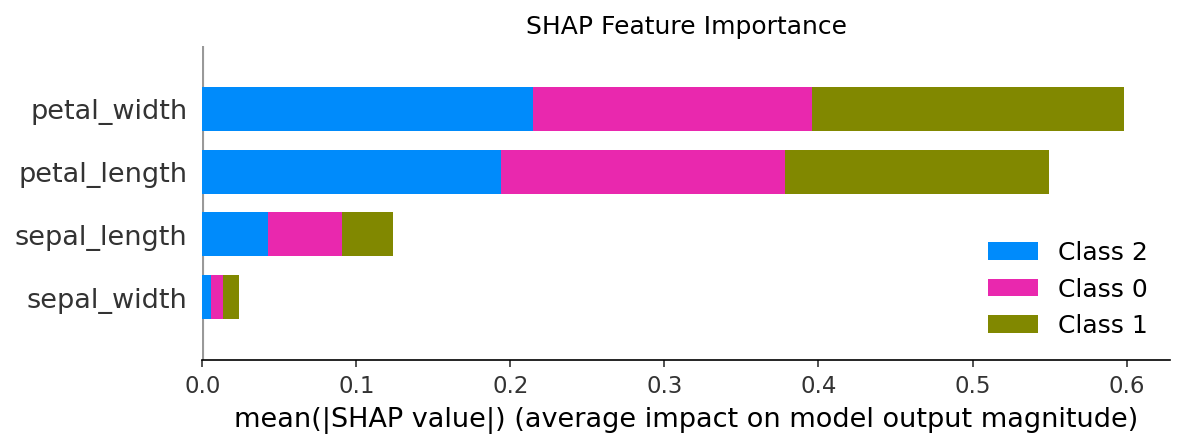
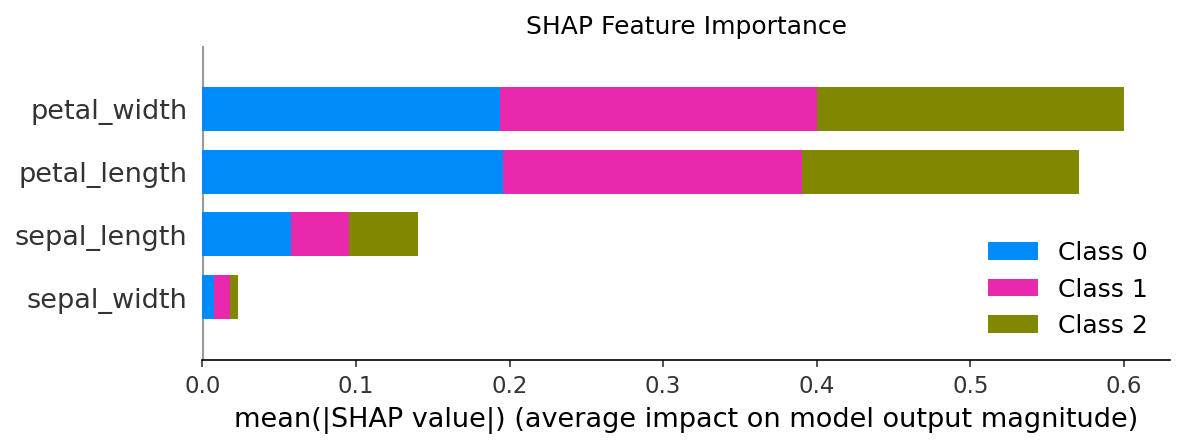
updated

diff --git a/train.py b/train.py
@@ -54,13 +54,14 @@ print(mf.by_group)
 
 # SHAP analysis
 explainer = shap.TreeExplainer(clf)
-shap_values = explainer.shap_values(X_test.iloc[:15])
+shap_values = explainer.shap_values(X_test)
 plt.figure(figsize=(8, 5))
-shap.summary_plot(shap_values, X_test.iloc[:15].values, feature_names=feature_cols, show=False, plot_type="bar")
+shap.summary_plot(shap_values, X_test.values, feature_names=feature_cols, show=False, plot_type="bar")
 plt.title('SHAP Feature Importance')
 plt.tight_layout()
 plt.savefig("artifacts/shap_plot.png", dpi=150, bbox_inches="tight")
 plt.close()
+
 
 # Drift detection
 new_data = df.copy()
